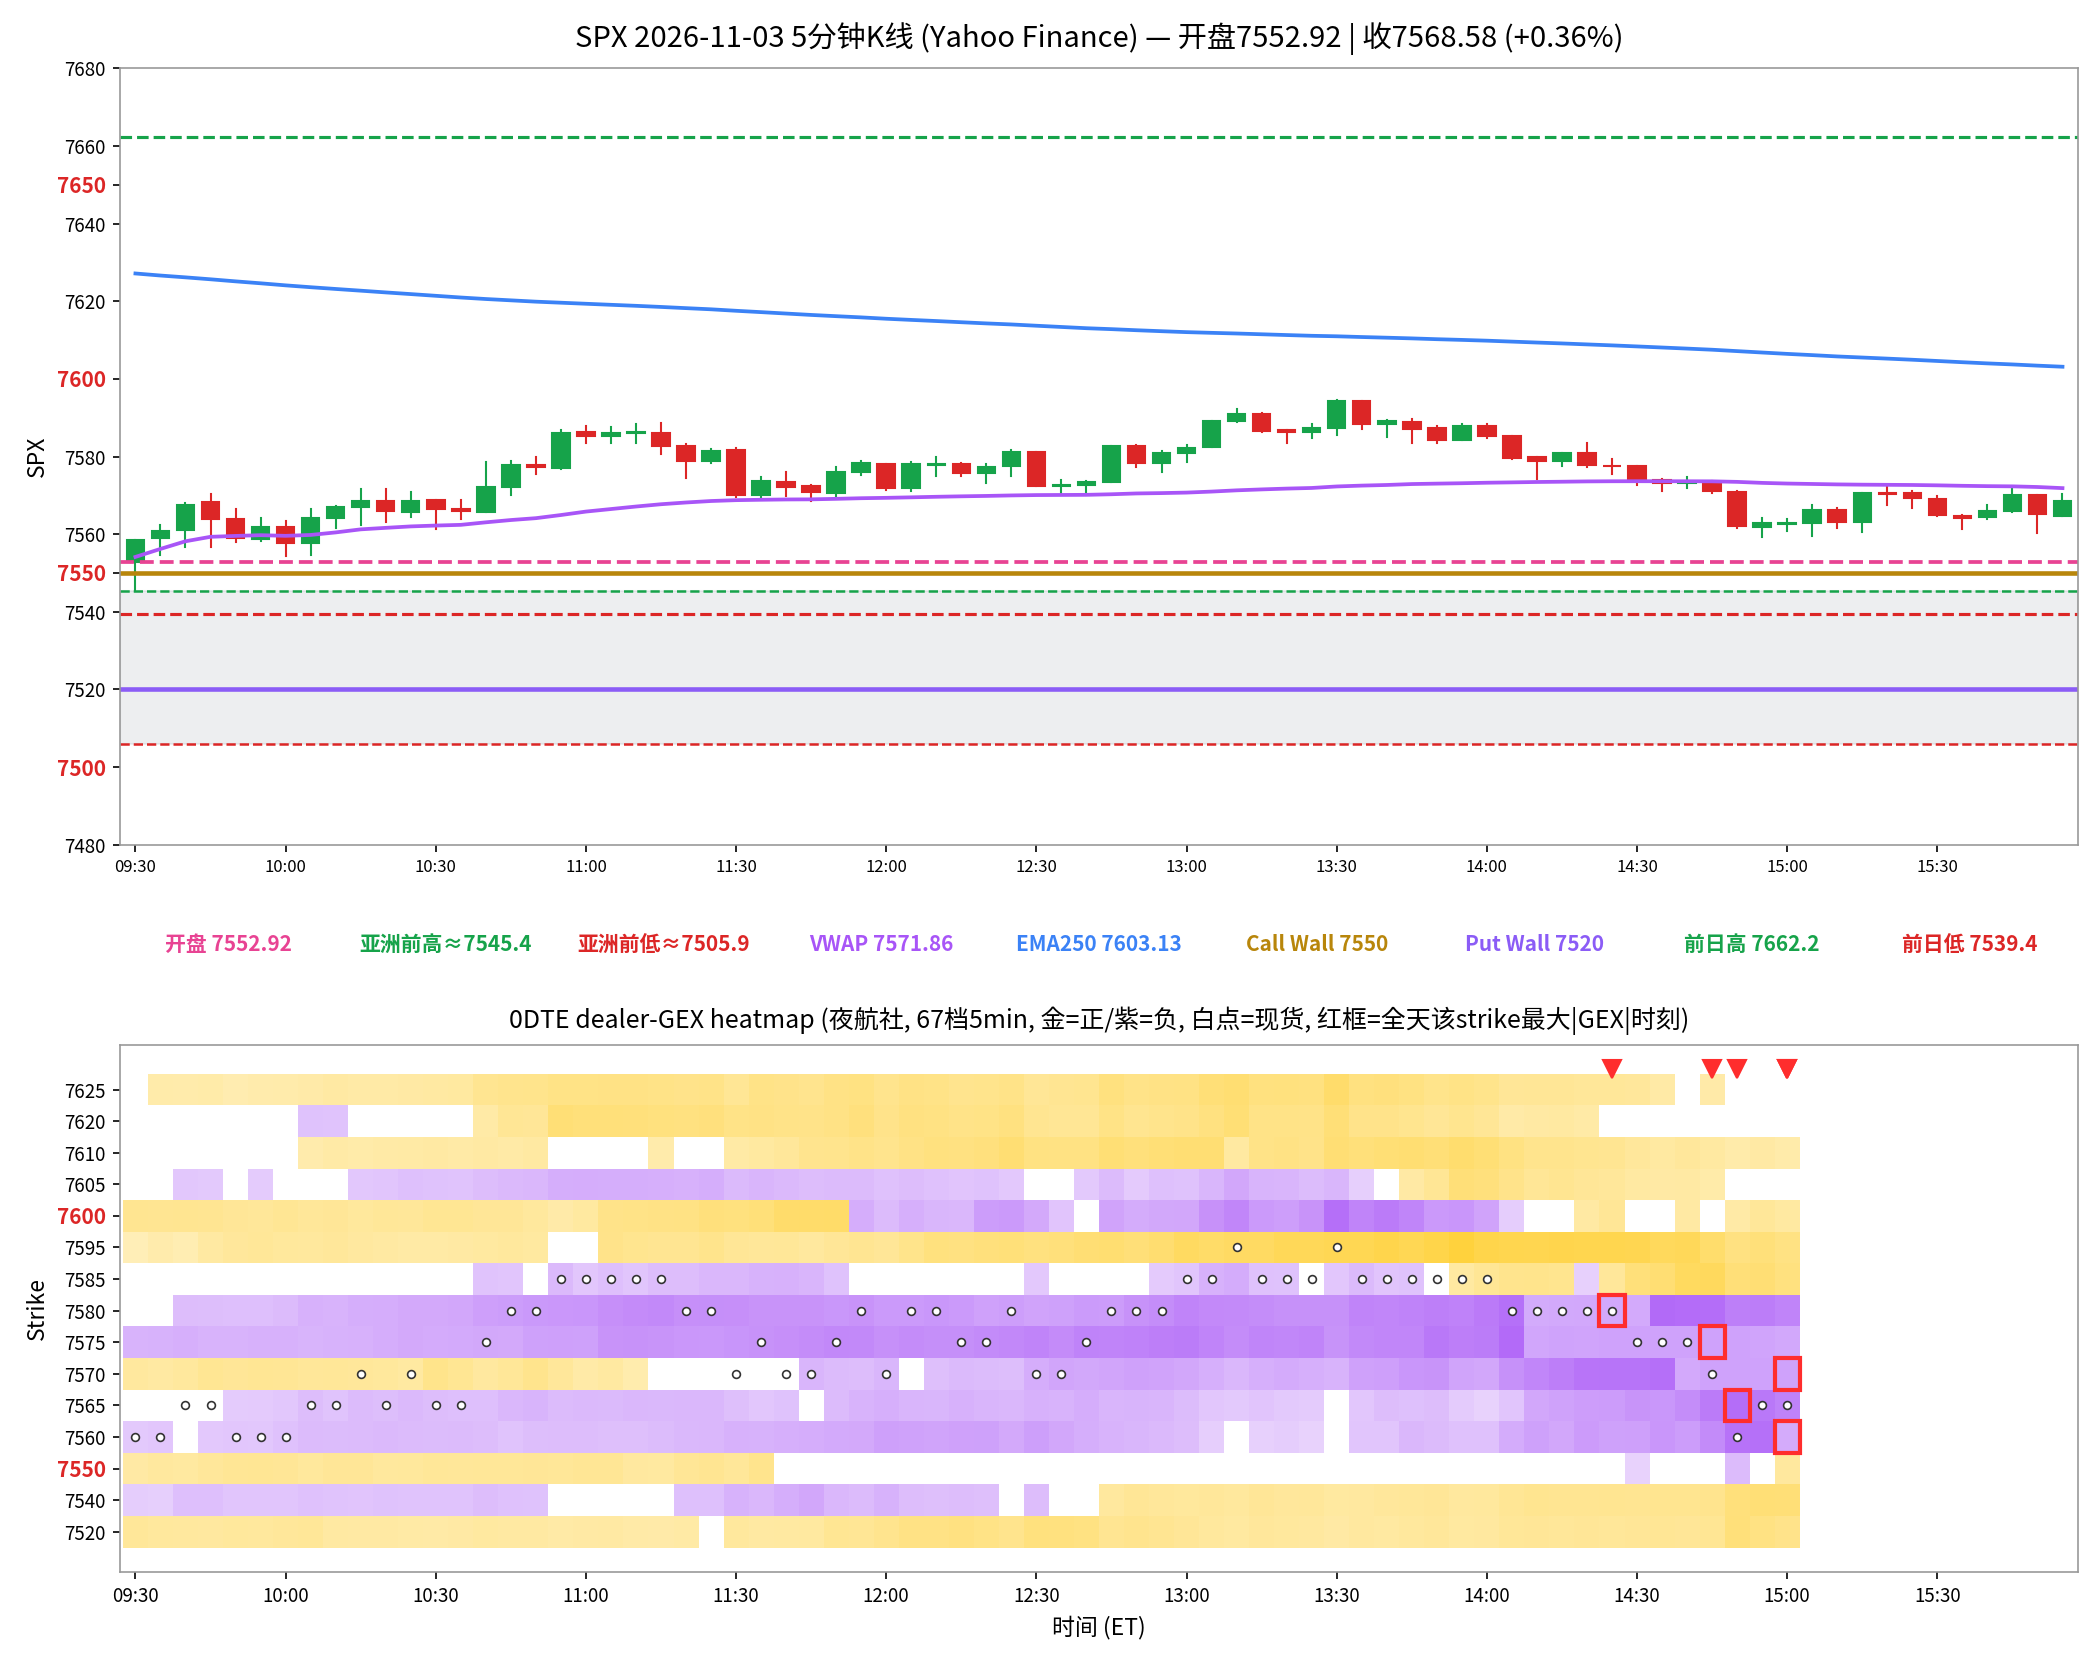
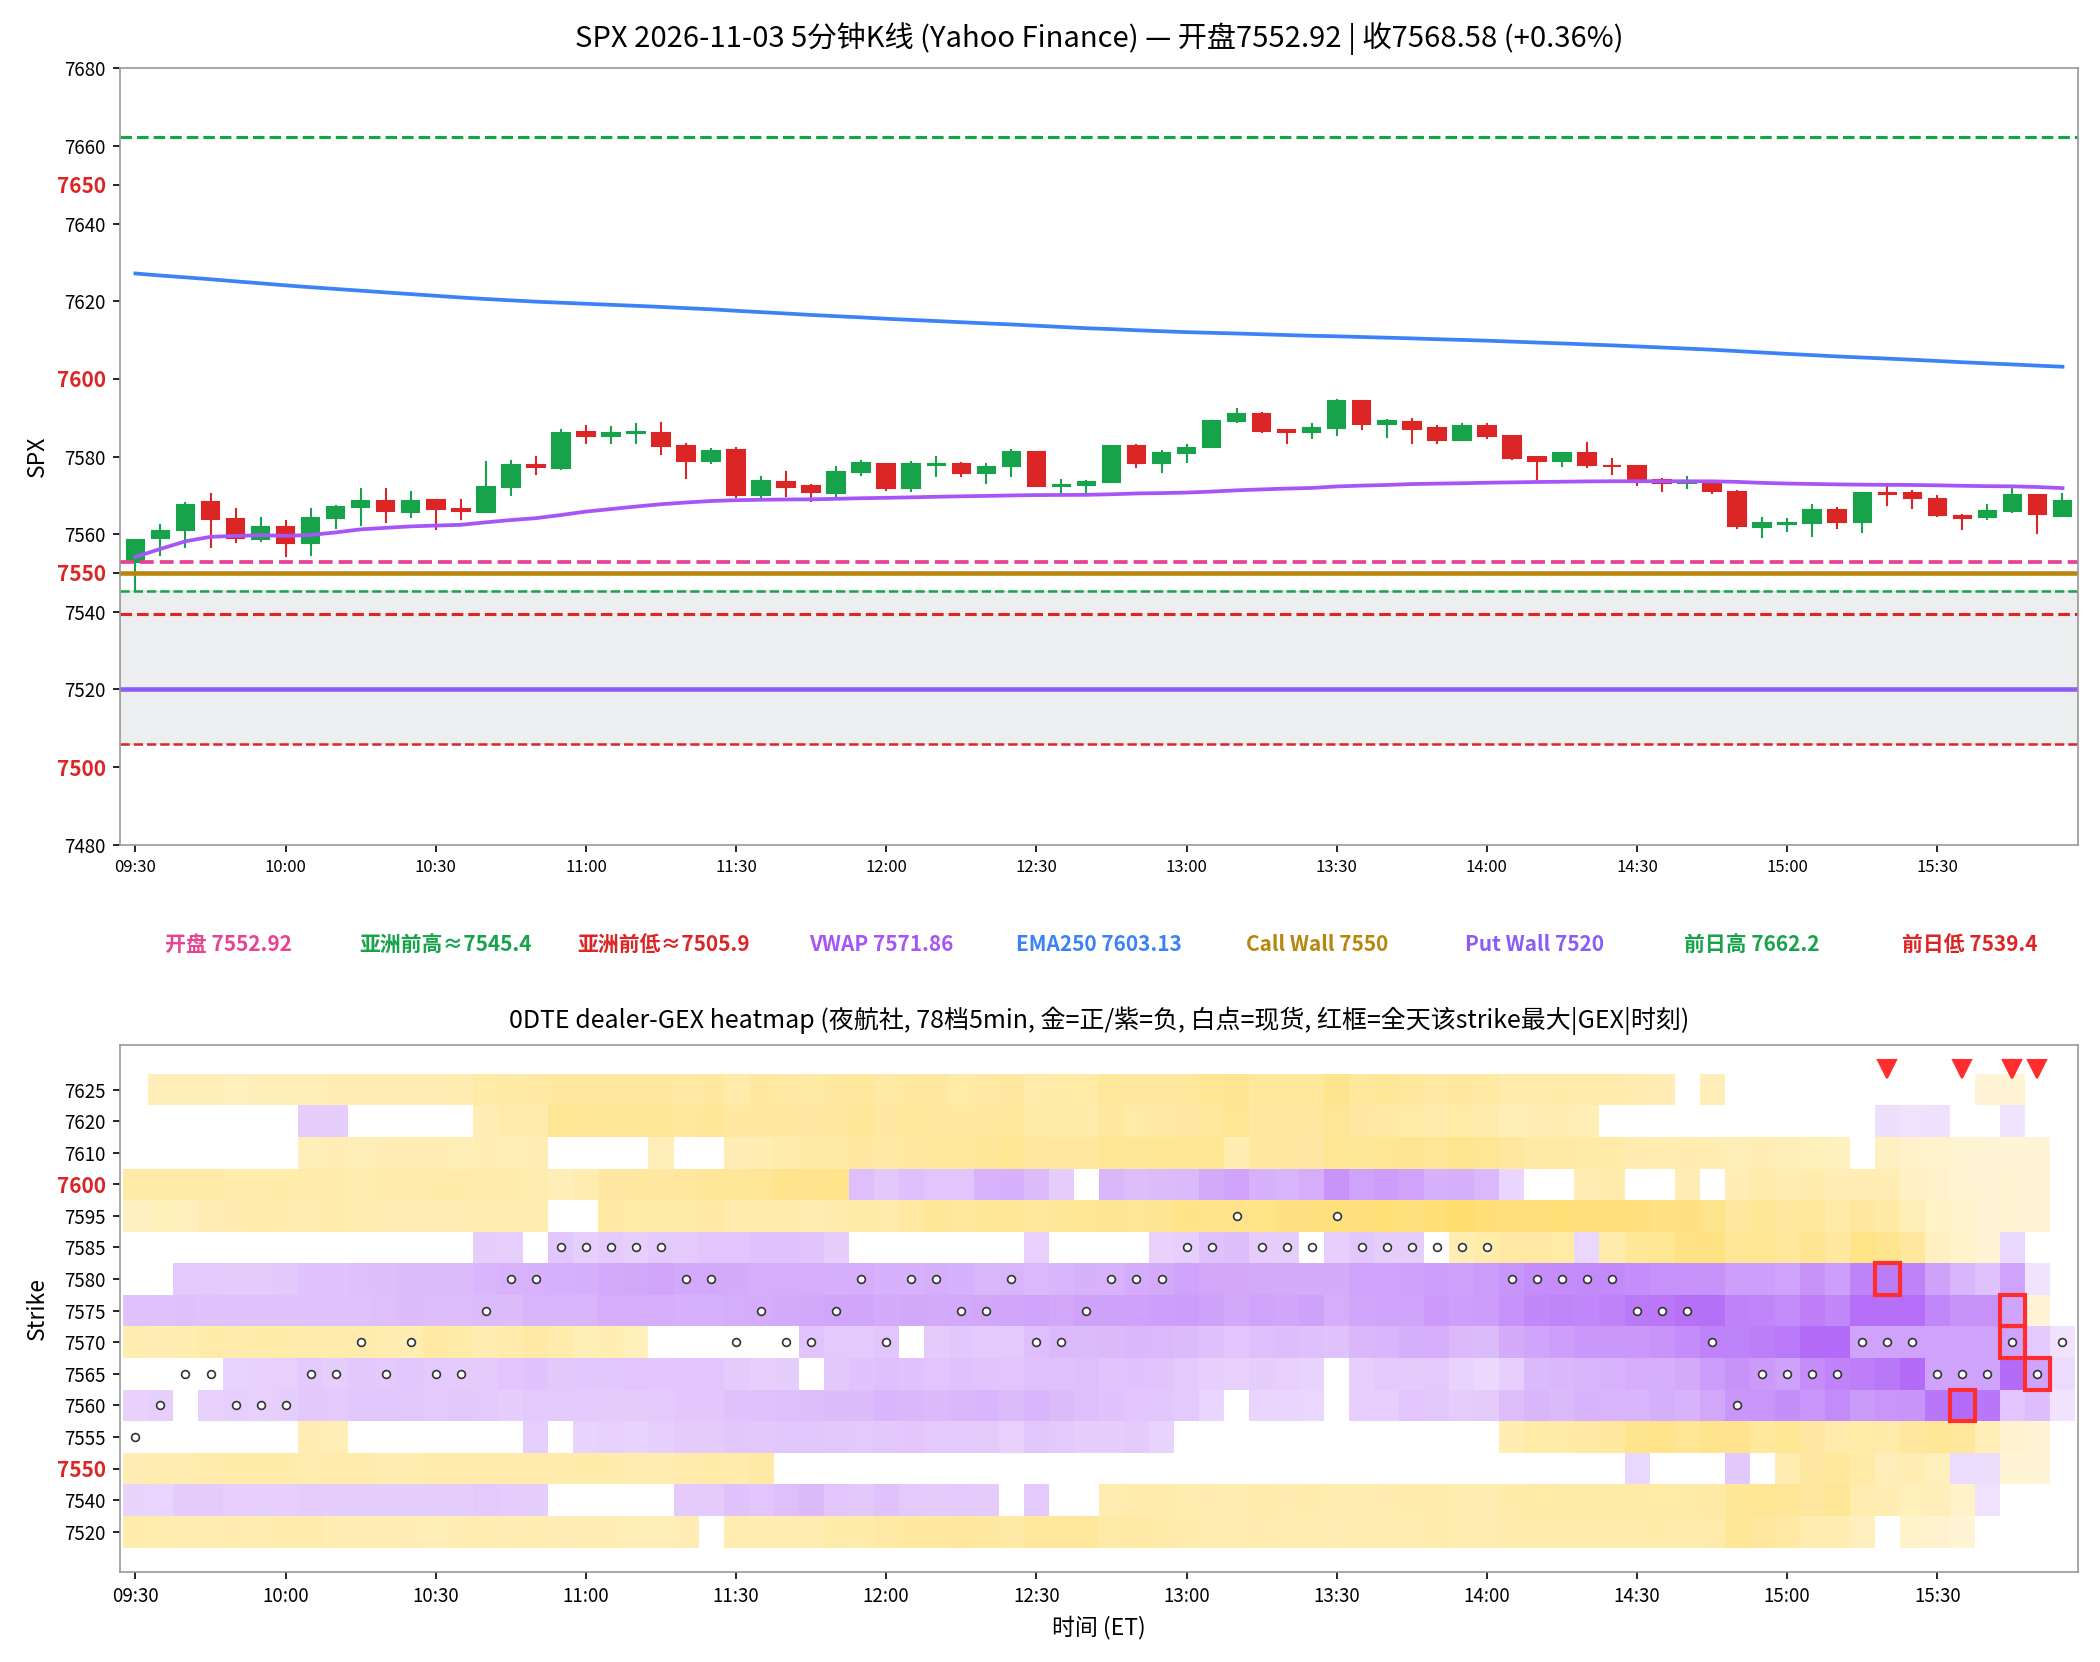
spx heatmap backfill 2026-11-03 (67->78 frames)

Changed region(s): [[0.031, 0.6444, 0.9905, 0.9513], [0.8048, 0.6137, 0.8357, 0.6444]]

diff --git a/spx-intraday/all.html b/spx-intraday/all.html
@@ -601,43 +601,43 @@
 </section>
 <section aria-label="K线与heatmap">
 <div class="section-head"><h2>5 分钟 K 线 × 0DTE heatmap</h2><div class="source">
-<p>0DTE，夜航社 67 档 5 分钟快照；白点为每档现货位置</p>
+<p>0DTE，夜航社 78 档 5 分钟快照；白点为每档现货位置</p>
 </div></div>
 <figure class="chart-shell"><img src="charts/spx_2026-11-03.png" alt="SPX 2026-11-03 5分钟K线与0DTE dealer-GEX heatmap" loading="lazy"></figure>
 <div class="gex-intro">
-<h3>heatmap解读（0DTE，夜航社 67 档 5 分钟快照）</h3>
+<h3>heatmap解读（0DTE，夜航社 78 档 5 分钟快照）</h3>
 <ul>
-<li>金色带在 7555(+810M) / 7540(+734M) / 7585(+614M) / 7595(+569M)</li>
-<li>紫色带在 7570(-4526M) / 7575(-3146M) / 7560(-2883M) / 7565(-1774M)</li>
+<li>尾盘无显著金色带</li>
+<li>紫色带在 7565(-27M)</li>
 <li>白点轨迹: 开 7552.92→高 7594.61→低 7545.39→收 7568.58（0.36%）；收盘在 call wall 7550 上方，put wall 7520 上方</li>
-<li>尾盘节点变化: 前三节点迁移 [7575, 7580, 7595]→[7560, 7570, 7575]；7570 减弱 -588%（-658M→-4526M）；7575 减弱 -57%（-1998M→-3146M）；7560 减弱 -1172%（-227M→-2883M）</li>
+<li>尾盘节点变化: 前三节点迁移 [7560, 7570, 7575]→[7560, 7565, 7570]；7565 增厚 +99%（-2138M→-27M）；7560 增厚 +100%（-2467M→-0M）；7570 增厚 +100%（-4073M→-0M）</li>
 </ul>
 </div>
 <div class="top5-wrap"><h3>全天最大节点 TOP5</h3><div class="top5">
 <article class="node purple">
-<span class="node-rank">① · 14:45</span>
-<strong>7575</strong>
-<span class="metric">-5370.1M</span>
-</article>
-<article class="node purple">
-<span class="node-rank">② · 15:00</span>
-<strong>7570</strong>
-<span class="metric">-4525.8M</span>
-</article>
-<article class="node purple">
-<span class="node-rank">③ · 14:25</span>
-<strong>7580</strong>
-<span class="metric">-3220.2M</span>
-</article>
-<article class="node purple">
-<span class="node-rank">④ · 15:00</span>
-<strong>7560</strong>
-<span class="metric">-2883.4M</span>
-</article>
-<article class="node purple">
-<span class="node-rank">⑤ · 14:50</span>
+<span class="node-rank">① · 15:50</span>
 <strong>7565</strong>
-<span class="metric">-2604.2M</span>
+<span class="metric">-39400.1M</span>
+</article>
+<article class="node purple">
+<span class="node-rank">② · 15:45</span>
+<strong>7570</strong>
+<span class="metric">-22396.1M</span>
+</article>
+<article class="node purple">
+<span class="node-rank">③ · 15:45</span>
+<strong>7575</strong>
+<span class="metric">-7705.0M</span>
+</article>
+<article class="node purple">
+<span class="node-rank">④ · 15:35</span>
+<strong>7560</strong>
+<span class="metric">-5780.3M</span>
+</article>
+<article class="node purple">
+<span class="node-rank">⑤ · 15:20</span>
+<strong>7580</strong>
+<span class="metric">-4299.9M</span>
 </article>
 </div></div>
 <div class="method"><p>亮度口径：p99 截断；红框 = 全天该 strike 最大 |GEX| 时刻。</p></div>
@@ -687,7 +687,7 @@
 <div class="summary-list">
 <article class="summary-item"><p>①开盘 7552.92，相对 call wall 7550 位置：贴墙；put wall 7520。</p></article>
 <article class="summary-item"><p>②白点轨迹: 开 7552.92→高 7594.61→低 7545.39→收 7568.58（0.36%）；收盘在 call wall 7550 上方，put wall 7520 上方</p></article>
-<article class="summary-item"><p>③尾盘节点变化: 前三节点迁移 [7575, 7580, 7595]→[7560, 7570, 7575]；7570 减弱 -588%（-658M→-4526M）；7575 减弱 -57%（-1998M→-3146M）；7560 减弱 -1172%（-227M→-2883M）</p></article>
+<article class="summary-item"><p>③尾盘节点变化: 前三节点迁移 [7560, 7570, 7575]→[7560, 7565, 7570]；7565 增厚 +99%（-2138M→-27M）；7560 增厚 +100%（-2467M→-0M）；7570 增厚 +100%（-4073M→-0M）</p></article>
 <article class="summary-item"><p>④flow 印证：中性（bull 6.13M / bear 6.95M）；最大簇 7580C 1.5M（ATM，spot≈7575.1；ask 0.22M / bid 0.88M / mid 0.4M）。</p></article>
 <article class="summary-item"><p>⑤收盘 7568.58（0.36%），VWAP 7571.86，EMA250 7603.13；非事件日</p></article>
 </div></section>

diff --git a/spx-intraday/2026-11-03.html b/spx-intraday/2026-11-03.html
@@ -69,43 +69,43 @@
 </section>
 <section aria-label="K线与heatmap">
 <div class="section-head"><h2>5 分钟 K 线 × 0DTE heatmap</h2><div class="source">
-<p>0DTE，夜航社 67 档 5 分钟快照；白点为每档现货位置</p>
+<p>0DTE，夜航社 78 档 5 分钟快照；白点为每档现货位置</p>
 </div></div>
 <figure class="chart-shell"><img src="charts/spx_2026-11-03.png" alt="SPX 2026-11-03 5分钟K线与0DTE dealer-GEX heatmap" loading="lazy"></figure>
 <div class="gex-intro">
-<h3>heatmap解读（0DTE，夜航社 67 档 5 分钟快照）</h3>
+<h3>heatmap解读（0DTE，夜航社 78 档 5 分钟快照）</h3>
 <ul>
-<li>金色带在 7555(+810M) / 7540(+734M) / 7585(+614M) / 7595(+569M)</li>
-<li>紫色带在 7570(-4526M) / 7575(-3146M) / 7560(-2883M) / 7565(-1774M)</li>
+<li>尾盘无显著金色带</li>
+<li>紫色带在 7565(-27M)</li>
 <li>白点轨迹: 开 7552.92→高 7594.61→低 7545.39→收 7568.58（0.36%）；收盘在 call wall 7550 上方，put wall 7520 上方</li>
-<li>尾盘节点变化: 前三节点迁移 [7575, 7580, 7595]→[7560, 7570, 7575]；7570 减弱 -588%（-658M→-4526M）；7575 减弱 -57%（-1998M→-3146M）；7560 减弱 -1172%（-227M→-2883M）</li>
+<li>尾盘节点变化: 前三节点迁移 [7560, 7570, 7575]→[7560, 7565, 7570]；7565 增厚 +99%（-2138M→-27M）；7560 增厚 +100%（-2467M→-0M）；7570 增厚 +100%（-4073M→-0M）</li>
 </ul>
 </div>
 <div class="top5-wrap"><h3>全天最大节点 TOP5</h3><div class="top5">
 <article class="node purple">
-<span class="node-rank">① · 14:45</span>
-<strong>7575</strong>
-<span class="metric">-5370.1M</span>
-</article>
-<article class="node purple">
-<span class="node-rank">② · 15:00</span>
-<strong>7570</strong>
-<span class="metric">-4525.8M</span>
-</article>
-<article class="node purple">
-<span class="node-rank">③ · 14:25</span>
-<strong>7580</strong>
-<span class="metric">-3220.2M</span>
-</article>
-<article class="node purple">
-<span class="node-rank">④ · 15:00</span>
-<strong>7560</strong>
-<span class="metric">-2883.4M</span>
-</article>
-<article class="node purple">
-<span class="node-rank">⑤ · 14:50</span>
+<span class="node-rank">① · 15:50</span>
 <strong>7565</strong>
-<span class="metric">-2604.2M</span>
+<span class="metric">-39400.1M</span>
+</article>
+<article class="node purple">
+<span class="node-rank">② · 15:45</span>
+<strong>7570</strong>
+<span class="metric">-22396.1M</span>
+</article>
+<article class="node purple">
+<span class="node-rank">③ · 15:45</span>
+<strong>7575</strong>
+<span class="metric">-7705.0M</span>
+</article>
+<article class="node purple">
+<span class="node-rank">④ · 15:35</span>
+<strong>7560</strong>
+<span class="metric">-5780.3M</span>
+</article>
+<article class="node purple">
+<span class="node-rank">⑤ · 15:20</span>
+<strong>7580</strong>
+<span class="metric">-4299.9M</span>
 </article>
 </div></div>
 <div class="method"><p>亮度口径：p99 截断；红框 = 全天该 strike 最大 |GEX| 时刻。</p></div>
@@ -155,7 +155,7 @@
 <div class="summary-list">
 <article class="summary-item"><p>①开盘 7552.92，相对 call wall 7550 位置：贴墙；put wall 7520。</p></article>
 <article class="summary-item"><p>②白点轨迹: 开 7552.92→高 7594.61→低 7545.39→收 7568.58（0.36%）；收盘在 call wall 7550 上方，put wall 7520 上方</p></article>
-<article class="summary-item"><p>③尾盘节点变化: 前三节点迁移 [7575, 7580, 7595]→[7560, 7570, 7575]；7570 减弱 -588%（-658M→-4526M）；7575 减弱 -57%（-1998M→-3146M）；7560 减弱 -1172%（-227M→-2883M）</p></article>
+<article class="summary-item"><p>③尾盘节点变化: 前三节点迁移 [7560, 7570, 7575]→[7560, 7565, 7570]；7565 增厚 +99%（-2138M→-27M）；7560 增厚 +100%（-2467M→-0M）；7570 增厚 +100%（-4073M→-0M）</p></article>
 <article class="summary-item"><p>④flow 印证：中性（bull 6.13M / bear 6.95M）；最大簇 7580C 1.5M（ATM，spot≈7575.1；ask 0.22M / bid 0.88M / mid 0.4M）。</p></article>
 <article class="summary-item"><p>⑤收盘 7568.58（0.36%），VWAP 7571.86，EMA250 7603.13；非事件日</p></article>
 </div></section>
